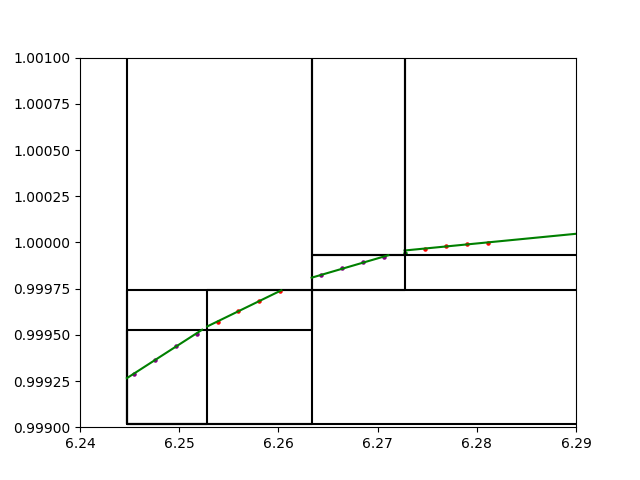
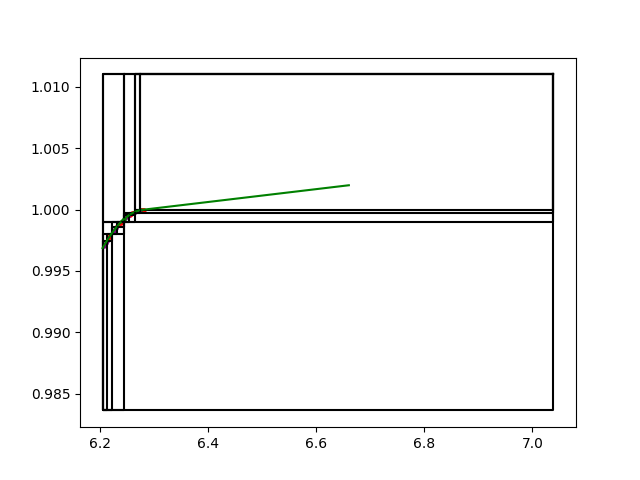
quickcommit

diff --git a/Src/DataStruct/DataStructures.py b/Src/DataStruct/DataStructures.py
@@ -1431,10 +1431,8 @@ class SplitTree:
                     #Now we are in a bigger scope. First we will check for touching points and intercepts.
                     touching = self.getTouch(threshDistance,self.dep)
                     #if theres enough touching, we will invoke a converge results yet we need to make sure to ignore the
-                    print(self.dep,touching)
-                    if len(touching) > 2:#Potential for complete segments, this adjusts stack to what we want
-                        self.purge(1,touching,threshDistance=threshDistance)
-                        rdata = []
+                    if (self.dim == 2 and len(touching) > 4) or (self.dim == 3 and len(touching) > 8):#Potential for complete segments, this adjusts stack to what we want
+                        self.purge(1,[self.dep,touching],threshDistance=threshDistance)
                         outcode = 1
                     else:
                         rdata = []#We dont have enough touching to put together anything
@@ -1524,7 +1522,17 @@ class SplitTree:
                     i += 1
                 return retpts,retr
         elif incode == 1:
-            print('nah')
+            if self.dep == indata[0]
+                #Full Touches
+                for t in indata[1]:
+                    t0 = t[0]
+                    t1 = t[1]
+                    it0 = isinstance(t[0],int)
+                    it1 = isinstance(t[1],int)
+            else:
+                #Sent other kinds of touches
+        elif incode == 2:
+
     def getTouch(self,threshDistance,indepth):
         #get touch is implied that there has already been a stack build
         touchid = []
@@ -1589,16 +1597,22 @@ class SplitTree:
                 if self.stackid[i] == 3:
                     tid,e = self.leafs[i].getTouch(threshDistance,indepth)
                     j = 0
-                    while j < len(tid):
-                        touchid.append([i,tid[j]])           
+                    while j < len(tid):#adds touching path
+                        if isinstance(tid[j][0],int):
+                            touchid.append([[i,[tid[j][0]]]])
+                        else:
+                            touchid.append([[i,tid[j][0]]])
+                        if isinstance(tid[j][1],int):
+                            touchid[len(touchid) - 1].append([i,[tid[j][1]]])
+                        else:
+                            touchid[len(touchid) - 1].append([i,tid[j][1]])
                         j += 1
                     j = 0
-                    while j < len(e[0]):
+                    while j < len(e[0]):#adds in extrema types
                         if isinstance(e[1][j],int):
-                            extrema[1].append([i,e[1][j]])
+                            extrema[1].append([i,[e[1][j]]])
                         else:
-                            e[1][j].insert(0,i)
-                            extrema[1].append(e[1][j])
+                            extrema[1].append([i,e[1][j]])
                         extrema[0].append(e[0][j])
                         j += 1
                 elif self.stackid[i] == 1:
@@ -1627,11 +1641,25 @@ class SplitTree:
                         if abs(e0[i][0] - corner[0]) < threshDistance or abs(e0[i][1] - corner[1]) < threshDistance:
                             te[0].append(e0[i])
                             te[1].append(e1[i])
-                            break
                     i += 1
                 extrema = te
                 return touchid,extrema
             else:
+                i = 0
+                j = 0
+                tempid = []
+                while i < len(touchid) - 1:
+                    j = i + 1
+                    case = False
+                    while j < len(touchid):
+                        if touchid[i] == touchid[j]:
+                            case = True
+                            break
+                        j += 1
+                    if case == False:
+                        tempid.append(touchid[i])
+                    i += 1
+                touchid = tempid
                 return touchid
     def Draw(self,indep : int = 0,name : str = r'quadplot.png',*,index : int = 0):
         #This is the class for creating a visual of the quad tree structure
@@ -1663,8 +1691,6 @@ class SplitTree:
             if self.dim == 2:
                 plt.clf()
                 plt.rcParams['figure.dpi'] = 300
-                plt.xlim(6.24,6.29)
-                plt.ylim(0.999,1.001)
                 nodes = []
                 deps = []
                 for data in rdata:
